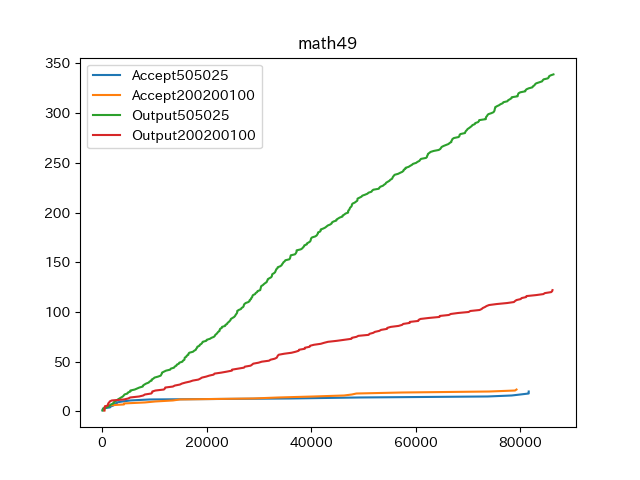
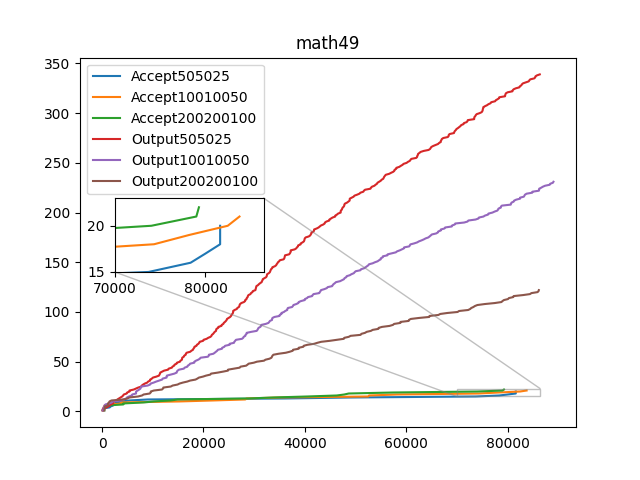
APSECのデータ収集と加工完了

diff --git a/correct_patch_search.py b/correct_patch_search.py
@@ -79,25 +79,25 @@ def summary(file_path):
 
 def main():
     # correct_patch_search
-    projects = ["80"]
+    projects = ["49", "80", "82"]
     for project in projects:
         for seed in range(10):
             selection_file_path = pathlib.Path(
-                "/Users/haradakanon/Downloads/research/505025/math{project}log/selection.csv".format(project=project))
+                "/Users/haradakanon/Downloads/research/10010050/math{project}log/selection.csv".format(project=project))
             file_path = pathlib.Path(
-                "/Users/haradakanon/Downloads/research/505025/math{project}/seed{seed}".format(
+                "/Users/haradakanon/Downloads/research/10010050/math{project}/seed{seed}".format(
                     project=project, seed=str(seed))
             )
             output_file_path = pathlib.Path(
-                "/Users/haradakanon/Downloads/research/505025/math{project}log/correct_patch".format(project=project))
+                "/Users/haradakanon/Downloads/research/10010050/math{project}log/correct_patch".format(project=project))
             correct_patch_search(selection_file_path,
                                  file_path, project, seed, output_file_path)
 
     # summary
-    projects = ["49", "82"]
+    projects = ["49", "80", "82"]
     for project in projects:
         file_path = pathlib.Path(
-            "/Users/haradakanon/Downloads/research/505025/math{project}log".format(
+            "/Users/haradakanon/Downloads/research/10010050/math{project}log".format(
                 project=project)
         )
         summary(file_path)

diff --git a/log＿analyze.py b/log＿analyze.py
@@ -119,18 +119,18 @@ def main():
     #         "/Users/haradakanon/Downloads/kGenProg-1.8.2/example/math78")
     #     data = extract_generation_with_max_fitness(file_path)
     #     summarize(summarize_file_path, i, data)
-    projects = ["80"]
+    projects = ["49", "80", "82"]
     for project in projects:
         output_file_path = pathlib.Path(
-            "/Users/haradakanon/Downloads/research/505025/math{project}log/selection".format(
+            "/Users/haradakanon/Downloads/research/10010050/math{project}log/selection".format(
                 project=project)
         )
         selection_file_path = pathlib.Path(
-            "/Users/haradakanon/Downloads/research/505025/math{project}log/selection".format(
+            "/Users/haradakanon/Downloads/research/10010050/math{project}log/selection".format(
                 project=project)
         )
         duplicate_file_path = pathlib.Path(
-            "/Users/haradakanon/Downloads/research//505025/math{project}log/duplicate_lines_report.csv".format(
+            "/Users/haradakanon/Downloads/research//10010050/math{project}log/duplicate_lines_report.csv".format(
                 project=project)
         )
         selected(output_file_path, selection_file_path, duplicate_file_path)

diff --git a/duplicate_search.py b/duplicate_search.py
@@ -50,13 +50,13 @@ def search_java_files(folder_path):
 
 
 def main():
-    projects = ["46", "49", "72", "78", "80", "82", "85"]
+    projects = ["49", "80", "82"]
     for project in projects:
         folder_path = pathlib.Path(
-            "/Users/haradakanon/Downloads/research/505025/math{project}".format(project=project))
+            "/Users/haradakanon/Downloads/research/10010050/math{project}".format(project=project))
         java_files = search_java_files(folder_path)
         output_csv_file = pathlib.Path(
-            "/Users/haradakanon/Downloads/research/505025/math{project}log/duplicate_lines_report.csv".format(project=project))
+            "/Users/haradakanon/Downloads/research/10010050/math{project}log/duplicate_lines_report.csv".format(project=project))
         with open(output_csv_file, mode="w", newline="") as csv_file:
             writer = csv.writer(csv_file)
             writer.writerow(["File Path"])

diff --git a/zoom_graph.py b/zoom_graph.py
@@ -20,12 +20,12 @@ def draw_graph(x1, y1, x2, y2, x3, y3, x4, y4, x5, y5, x6, y6, file_path, projec
     ax.legend()  # 凡例を表示
 
     plt.title("math{project}".format(project=project))
-    axins = ax.inset_axes([0.07, 0.42, 0.3, 0.2])
+    axins = ax.inset_axes([0.6, 0.07, 0.38, 0.27])
     axins.plot(x1, y1, label="Accept505025")
     axins.plot(x2, y2, label="Accept10010050")
     axins.plot(x3, y3, label="Accept200200100")
-    axins.set_xlim(70000, 86400)
-    axins.set_ylim(15, 23)
+    axins.set_xlim(1, 35000)
+    axins.set_ylim(1, 12)
     ax.indicate_inset_zoom(axins)
     # グラフを表示
     plt.savefig(
@@ -33,7 +33,7 @@ def draw_graph(x1, y1, x2, y2, x3, y3, x4, y4, x5, y5, x6, y6, file_path, projec
 
 
 def main():
-    projects = ["49"]
+    projects = ["85"]
     for project in projects:
         # 505025
         # correct

diff --git a/rule_selection.py b/rule_selection.py
@@ -20,10 +20,10 @@ def main():
     projects = ["49", "82"]
     for project in projects:
         input_file_path = pathlib.Path(
-            "/Users/haradakanon/Downloads/research/505025/math{project}log/selection".format(
+            "/Users/haradakanon/Downloads/research/10010050/math{project}log/selection".format(
                 project=project)
         )
-        output_file_path = pathlib.Path("/Users/haradakanon/Downloads/research/505025/math{project}log/selection".format(
+        output_file_path = pathlib.Path("/Users/haradakanon/Downloads/research/10010050/math{project}log/selection".format(
             project=project))
         keyword1 = "OpenIntToDoubleHashMap"
         keyword2 = "Empty while statement"

diff --git a/graph_output_data_sort.py b/graph_output_data_sort.py
@@ -121,8 +121,8 @@ def count_output(file_path, summarize_file_path):
 
 
 def main():
-    options = ["505025", "10010050", "200200100"]
-    projects = ["85"]
+    options = ["10010050"]
+    projects = ["49", "80", "82"]
     for option in options:
         for project in projects:
             file_path = pathlib.Path(

diff --git a/graph_data_sort.py b/graph_data_sort.py
@@ -130,8 +130,8 @@ def count_output(file_path, summarize_file_path):
 
 
 def main():
-    options = ["505025", "200200100"]
-    projects = ["80"]
+    options = ["10010050"]
+    projects = ["49", "80", "82"]
     for option in options:
         for project in projects:
             file_path = pathlib.Path(

diff --git a/graph_data_processing.py b/graph_data_processing.py
@@ -51,8 +51,8 @@ def summarize(file_path, i, data):
 
 
 def main():
-    options = ["505025", "200200100"]
-    projects = ["80"]
+    options = ["10010050"]
+    projects = ["49", "80", "82"]
     for option in options:
         for project in projects:
             for i in range(10):
